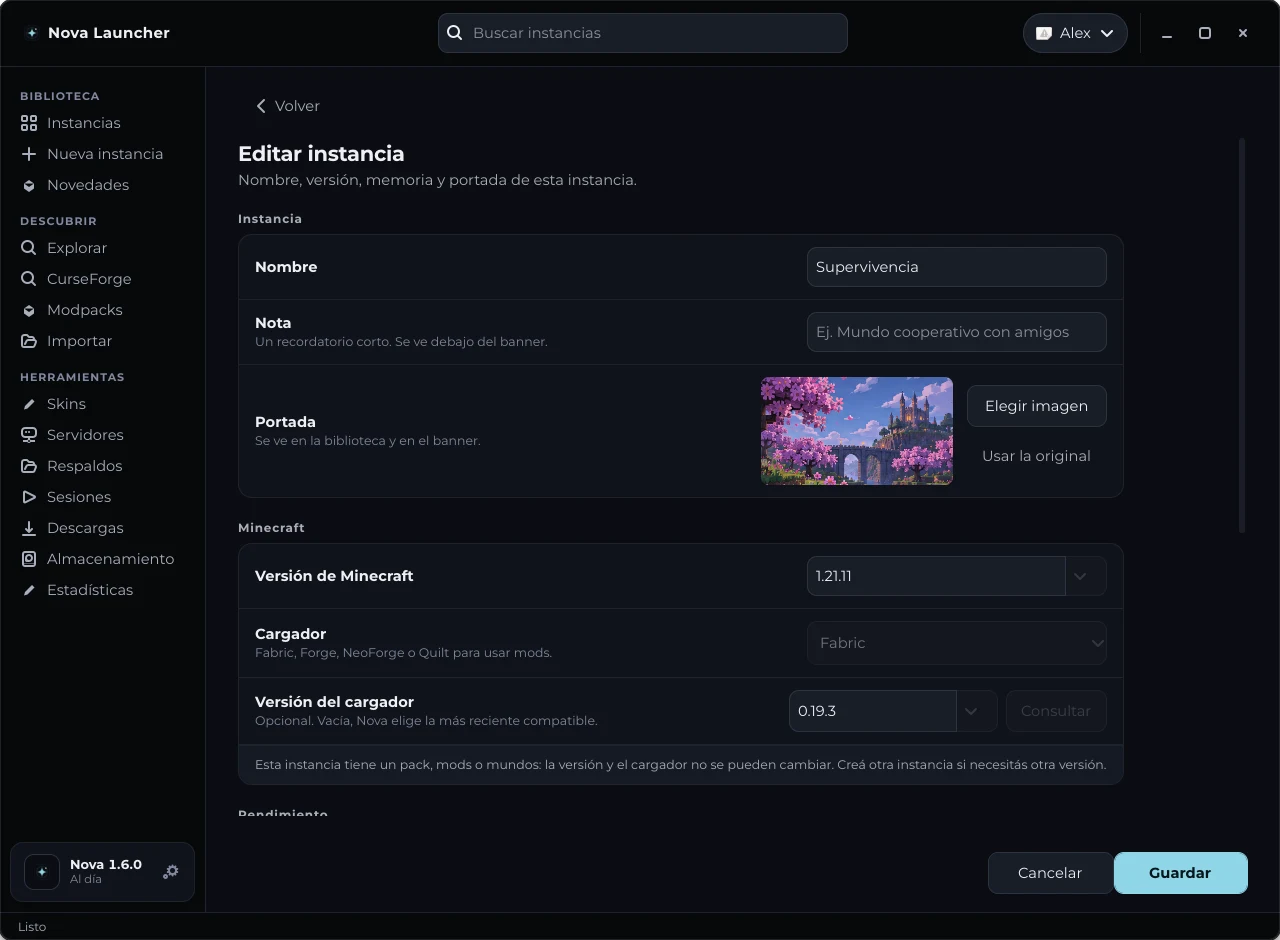
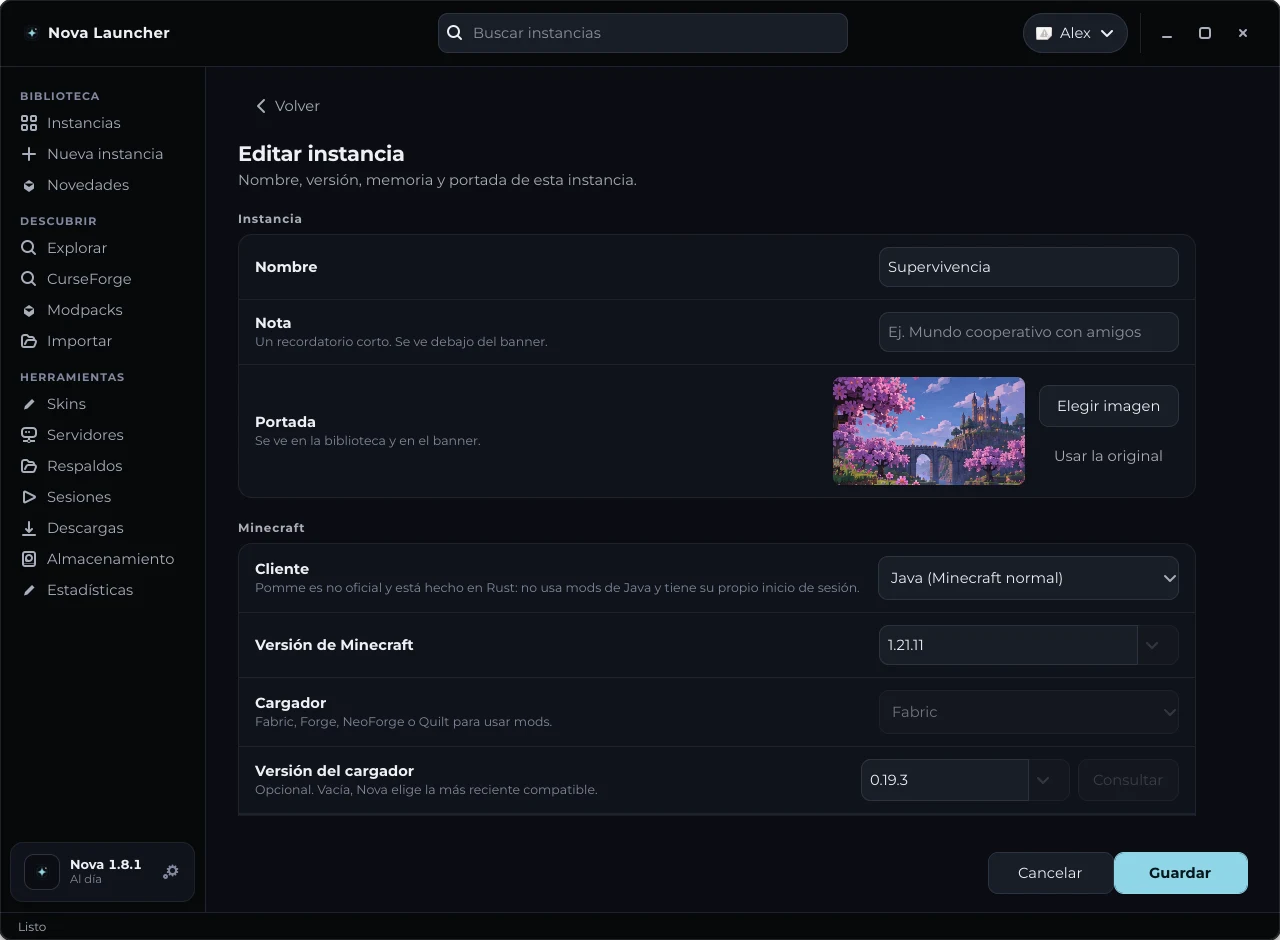
Website: Pomme/Rust section, screenshots from 1.8.1, privacy update and fixes
- New highlighted Rust/Pomme section, nav link, hero pill, strip item, feature row and FAQ
  (honest about experimental status, no mods, own Microsoft login, x64 only).
- All screenshots regenerated from the current app, plus two for Pomme.
- Privacy text covers the Nova account and the Pomme download.
- efectos.js: content reveal first, decorations in try/catch, so a failure can never leave sections hidden.
- Hero image priority, og:image size and alt, sitemap lastmod.
- tools/capturas.py: Pomme demo instance and scenes.

diff --git a/docs/index.html b/docs/index.html
@@ -5,7 +5,7 @@
   <meta name="google-site-verification" content="f-KJBeJi-TfsEfmEEZ4IR44FSGLed9uF5Enj_0-LfIo" />
   <meta name="viewport" content="width=device-width, initial-scale=1">
   <title>Nova Launcher — Launcher de Minecraft Java para Windows y Fedora</title>
-  <meta name="description" content="Nova Launcher organiza tus instancias de Minecraft Java: mods de Modrinth y CurseForge, importación de mods, texturas y shaders desde tu equipo, respaldos verificados, skins y servidores. Para Windows y Fedora.">
+  <meta name="description" content="Nova Launcher organiza tus instancias de Minecraft Java: mods de Modrinth y CurseForge, importación de mods, texturas y shaders desde tu equipo, respaldos verificados, skins, servidores y un cliente Rust experimental (Pomme). Para Windows y Fedora.">
   <meta name="theme-color" content="#07080b">
   <meta name="color-scheme" content="dark">
   <link rel="canonical" href="https://novalaunchermc.vercel.app/">
@@ -15,6 +15,9 @@
   <meta property="og:description" content="Instancias, mods, texturas y shaders desde tu equipo, respaldos verificados, skins y servidores para Minecraft Java en Windows y Fedora.">
   <meta property="og:url" content="https://novalaunchermc.vercel.app/">
   <meta property="og:image" content="https://novalaunchermc.vercel.app/assets/nova-biblioteca.webp">
+  <meta property="og:image:width" content="1280">
+  <meta property="og:image:height" content="820">
+  <meta property="og:image:alt" content="Biblioteca de Nova Launcher con el banner de una instancia y el botón Jugar">
   <meta name="twitter:card" content="summary_large_image">
   <link rel="preconnect" href="https://fonts.googleapis.com">
   <link rel="preconnect" href="https://fonts.gstatic.com" crossorigin>
@@ -31,6 +34,7 @@
       <a class="brand" href="./" aria-label="Nova Launcher, ir al inicio"><img src="assets/nova.svg" width="32" height="32" alt=""><span>Nova Launcher</span></a>
       <nav aria-label="Navegación">
         <a href="#funciones">Funciones</a>
+        <a href="#rust">Rust</a>
         <a href="#importar">Importar</a>
         <a href="#detalle">En detalle</a>
         <a href="#instalacion">Instalación</a>
@@ -45,7 +49,10 @@
       <canvas class="sky" data-sky aria-hidden="true"></canvas>
       <div class="wrap hero-grid">
         <div class="hero-copy">
-          <p class="badge"><span aria-hidden="true"></span> Versión estable · <b id="release-version">1.8.1</b></p>
+          <div class="badge-row">
+            <p class="badge"><span aria-hidden="true"></span> Versión estable · <b id="release-version">1.8.1</b></p>
+          <a class="badge badge-link" href="#rust"><span aria-hidden="true"></span> Nuevo · Cliente Rust (experimental)</a>
+          </div>
           <h1 id="titulo">Tus mods.<br>Tus mundos.<br><em>Un solo launcher.</em></h1>
           <p class="intro">Nova Launcher organiza tus instancias de Minecraft Java: instalá mods, importá los que ya tenés, revisá que todo funcione, guardá respaldos verificados y entrá a tus servidores.</p>
           <div class="actions">
@@ -60,7 +67,7 @@
           </p>
         </div>
         <figure class="shot hero-shot">
-          <img src="assets/nova-biblioteca.webp" width="1280" height="820" alt="Biblioteca de Nova Launcher con el banner de una instancia, el botón Jugar, los estantes de mods, shaders y texturas y la lista de instancias">
+          <img src="assets/nova-biblioteca.webp" width="1280" height="820" fetchpriority="high" alt="Biblioteca de Nova Launcher con el banner de una instancia, el botón Jugar, los estantes de mods, shaders y texturas y la lista de instancias">
           <figcaption>La biblioteca de Nova. Captura real con datos de ejemplo.</figcaption>
         </figure>
       </div>
@@ -69,10 +76,40 @@
 
     <section class="strip wrap" aria-label="Resumen">
       <ul>
+        <li><b>Java o Pomme (Rust)</b><span>elegís el cliente de cada instancia</span></li>
         <li><b>Vanilla, Fabric, Forge, NeoForge y Quilt</b><span>una instancia para cada partida</span></li>
         <li><b>Modrinth, CurseForge y tu equipo</b><span>mods, modpacks, shaders y texturas</span></li>
         <li><b>Windows x64 y Fedora</b><span>instaladores con SHA-256</span></li>
       </ul>
+    </section>
+
+    <section class="section wrap import rust" id="rust" aria-labelledby="rust-titulo">
+      <div class="copy reveal">
+        <h2 id="rust-titulo">Minecraft también en Rust, sin dejar Java</h2>
+        <p>Cada instancia puede usar <strong>Pomme</strong>, un cliente de Minecraft Java escrito en Rust. Java sigue siendo lo normal: Pomme es una opción más, y se elige por instancia en Editar instancia.</p>
+        <dl class="kinds">
+          <div><dt>Estado</dt><dd>experimental: Pomme está en desarrollo y le faltan funciones</dd></div>
+          <div><dt>Es de</dt><dd>un proyecto independiente, no oficial (<code>PommeMC/Client</code>, GPL-3.0)</dd></div>
+          <div><dt>Mods</dt><dd>no usa mods, shaders ni texturas de Java</dd></div>
+          <div><dt>Cuenta</dt><dd>tiene su propio inicio de sesión de Microsoft y pide tener Minecraft Java</dd></div>
+          <div><dt>Sistemas</dt><dd>Linux x64 y Windows x64</dd></div>
+        </dl>
+        <ul class="checks">
+          <li>Nova te pregunta antes de descargarlo y lo baja de la release oficial en GitHub.</li>
+          <li>Comprueba el tamaño y la suma SHA-256 que publica GitHub antes de abrirlo.</li>
+          <li>El tiempo jugado cuenta igual que con Java y, si falla, queda un <code>pomme.log</code>.</li>
+        </ul>
+      </div>
+      <div class="shots">
+        <figure class="shot reveal">
+          <img src="assets/nova-pomme.webp" width="1280" height="820" loading="lazy" alt="Biblioteca de Nova con una instancia que usa Pomme: el banner muestra la etiqueta Pomme · Rust y un aviso de que no usa los mods de Java">
+          <figcaption>Una instancia con Pomme. Datos de ejemplo.</figcaption>
+        </figure>
+        <figure class="shot small reveal">
+          <img src="assets/nova-pomme-descarga.webp" width="460" height="287" loading="lazy" alt="Aviso Descargar Pomme: explica que es un cliente no oficial, en desarrollo, y que Nova comprueba su suma SHA-256">
+          <figcaption>El aviso antes de descargar</figcaption>
+        </figure>
+      </div>
     </section>
 
     <section class="section wrap" id="funciones" aria-labelledby="funciones-titulo">
@@ -92,6 +129,11 @@
           <svg aria-hidden="true" viewBox="0 0 24 24"><path d="M12 3v12m-5-5 5 5 5-5M4 20h16"/></svg>
           <h3>Importá lo que ya tenés</h3>
           <p>Sumá mods, texturas, shaders y paquetes de datos desde archivos de tu equipo, o abrí un modpack. Nova revisa cada archivo antes de copiarlo.</p>
+        </li>
+        <li class="reveal">
+          <svg aria-hidden="true" viewBox="0 0 24 24"><path d="M9 3v3m6-3v3M9 18v3m6-3v3M3 9h3m-3 6h3m12-6h3m-3 6h3M7 6h10v12H7zm3 4h4v4h-4z"/></svg>
+          <h3>Cliente Rust (experimental)</h3>
+          <p>Elegí Pomme, un cliente de Minecraft Java escrito en Rust, para una instancia. Java sigue siendo lo normal y Nova pregunta antes de descargar nada.</p>
         </li>
         <li class="reveal">
           <svg aria-hidden="true" viewBox="0 0 24 24"><path d="M12 3 4 6v6c0 4.5 3.2 7.8 8 9 4.8-1.2 8-4.5 8-9V6l-8-3Zm-3.5 9 2.5 2.5 4.5-5"/></svg>
@@ -201,7 +243,11 @@
       </details>
       <details>
         <summary>¿Puedo jugar sin cuenta de Microsoft?</summary>
-        <p>Sí, con perfiles sin conexión. El inicio de sesión con Microsoft necesita un ID de aplicación aprobado para Minecraft Services; todavía no se probó de punta a punta.</p>
+        <p>Con Java, sí, con perfiles sin conexión. Con Pomme no: pide una cuenta de Microsoft y tener Minecraft Java. El inicio de sesión con Microsoft necesita un ID de aplicación aprobado para Minecraft Services; todavía no se probó de punta a punta.</p>
+      </details>
+      <details>
+        <summary>¿Qué es Pomme y es seguro usarlo?</summary>
+        <p>Pomme es un cliente de Minecraft Java escrito en Rust, de un proyecto independiente (<a href="https://github.com/PommeMC/Client">PommeMC/Client</a>, GPL-3.0-or-later). Nova lo descarga de su release oficial y comprueba el tamaño y la suma SHA-256 que publica GitHub. Eso confirma que es el archivo de esa release; no garantiza que el programa esté libre de errores. Sus propios autores avisan de que está en desarrollo y que sus instaladores todavía no están firmados.</p>
       </details>
       <details>
         <summary>¿Qué es la cuenta Nova?</summary>

diff --git a/docs/efectos.js b/docs/efectos.js
@@ -1,7 +1,31 @@
-// Nova Launcher · sitio. Cielo de estrellas, barra con fondo al desplazarse y entrada suave de las secciones.
-// Sin JavaScript o con "menos movimiento" todo se ve de inmediato y el cielo queda quieto.
+// Nova Launcher · sitio. Entrada suave de las secciones, barra con fondo al desplazarse y cielo de estrellas.
+// Cada parte va aparte: si una falla, el contenido nunca queda oculto. Sin JavaScript o con "menos movimiento"
+// todo se ve de inmediato y el cielo queda quieto.
 (() => {
   const reduce = matchMedia("(prefers-reduced-motion: reduce)").matches;
+
+  function reveal() {
+    const items = document.querySelectorAll(".reveal");
+    const showAll = () => items.forEach((item) => item.classList.add("visible"));
+    if (!("IntersectionObserver" in window) || reduce) return showAll();
+    const observer = new IntersectionObserver((entries) => {
+      for (const entry of entries) {
+        if (entry.isIntersecting) {
+          entry.target.classList.add("visible");
+          observer.unobserve(entry.target);
+        }
+      }
+    }, { rootMargin: "0px 0px -8% 0px", threshold: 0.08 });
+    items.forEach((item) => observer.observe(item));
+  }
+
+  function bar() {
+    const header = document.querySelector("[data-bar]");
+    if (!header) return;
+    const update = () => header.classList.toggle("is-scrolled", scrollY > 24);
+    update();
+    addEventListener("scroll", update, { passive: true });
+  }
 
   // Generador determinista: el cielo es idéntico en cada visita.
   function rng(seed) {
@@ -15,15 +39,9 @@
     };
   }
 
-  const bar = document.querySelector("[data-bar]");
-  if (bar) {
-    const update = () => bar.classList.toggle("is-scrolled", scrollY > 24);
-    update();
-    addEventListener("scroll", update, { passive: true });
-  }
-
-  const canvas = document.querySelector("[data-sky]");
-  if (canvas && canvas.getContext) {
+  function sky() {
+    const canvas = document.querySelector("[data-sky]");
+    if (!canvas || !canvas.getContext) return;
     const random = rng(1987);
     const count = innerWidth < 700 ? 130 : 300;
     const stars = Array.from({ length: count }, () => {
@@ -84,7 +102,7 @@
     }
 
     size();
-    if (reduce) {
+    if (reduce || !("IntersectionObserver" in window)) {
       draw(0);
     } else {
       const play = () => { if (!running) { running = true; frame = requestAnimationFrame(loop); } };
@@ -102,19 +120,9 @@
     addEventListener("resize", () => { clearTimeout(timer); timer = setTimeout(() => { size(); if (reduce) draw(0); }, 120); });
   }
 
-  const items = document.querySelectorAll(".reveal");
-  if (!items.length) return;
-  if (!("IntersectionObserver" in window) || reduce) {
-    items.forEach((item) => item.classList.add("visible"));
-    return;
+  // El contenido primero; lo decorativo después y sin poder romperlo.
+  try { reveal(); } catch { document.querySelectorAll(".reveal").forEach((item) => item.classList.add("visible")); }
+  for (const part of [bar, sky]) {
+    try { part(); } catch { /* decoración: si falla, la página sigue igual */ }
   }
-  const observer = new IntersectionObserver((entries) => {
-    for (const entry of entries) {
-      if (entry.isIntersecting) {
-        entry.target.classList.add("visible");
-        observer.unobserve(entry.target);
-      }
-    }
-  }, { rootMargin: "0px 0px -8% 0px", threshold: 0.08 });
-  items.forEach((item) => observer.observe(item));
 })();

diff --git a/docs/estilos.css b/docs/estilos.css
@@ -47,6 +47,9 @@ kbd { padding: 2px 7px; border-radius: 6px; background: var(--raised); box-shado
 .curve path { fill: none; stroke: var(--accent); stroke-width: 1.6; vector-effect: non-scaling-stroke; stroke-linejoin: round; opacity: 0.8; }
 .hero-grid { display: grid; grid-template-columns: minmax(0, 0.86fr) minmax(0, 1.14fr); gap: clamp(32px, 5vw, 72px); align-items: center; padding-top: 44px; }
 .badge { display: inline-flex; align-items: center; gap: 10px; min-height: 32px; padding: 0 14px; border-radius: 999px; box-shadow: inset 0 0 0 1px var(--line2); color: var(--ink2); font-size: 0.82rem; }
+.badge-row { display: flex; flex-wrap: wrap; gap: 10px; }
+.badge-link { text-decoration: none; color: var(--accent); box-shadow: inset 0 0 0 1px rgba(143, 214, 232, 0.4); transition: background-color 200ms ease; }
+.badge-link:hover { color: var(--accent-hover); background: var(--accent-dim); }
 .badge span { width: 8px; height: 8px; border-radius: 50%; background: var(--accent); }
 .badge b { font-family: var(--mono); font-weight: 500; font-size: 0.78rem; color: var(--ink); }
 h1 { margin-top: 24px; font-size: clamp(2.6rem, 5.6vw, 4.5rem); line-height: 0.98; letter-spacing: -0.035em; font-weight: 650; font-variation-settings: "wdth" 120; }
@@ -73,7 +76,7 @@ h1 em { font-style: normal; color: var(--accent); }
 
 /* Resumen */
 .strip { margin-top: -36px; }
-.strip ul { list-style: none; display: grid; grid-template-columns: repeat(3, 1fr); border-radius: var(--radius); background: var(--bg2); box-shadow: inset 0 0 0 1px var(--line); overflow: hidden; }
+.strip ul { list-style: none; display: grid; grid-template-columns: repeat(4, 1fr); border-radius: var(--radius); background: var(--bg2); box-shadow: inset 0 0 0 1px var(--line); overflow: hidden; }
 .strip li { padding: 22px 26px; display: flex; flex-direction: column; gap: 3px; }
 .strip li + li { border-left: 1px solid var(--line); }
 .strip b { font-weight: 600; font-variation-settings: "wdth" 108; letter-spacing: -0.01em; }
@@ -102,6 +105,9 @@ h3 { font-size: 1.15rem; font-weight: 620; letter-spacing: -0.01em; font-variati
 .checks li { padding-left: 24px; position: relative; }
 .checks li::before { content: ""; position: absolute; left: 2px; top: 0.62em; width: 9px; height: 9px; border-radius: 50%; background: var(--accent); }
 .import .shot { max-width: 540px; justify-self: end; }
+.rust .shots { display: grid; gap: 20px; justify-items: end; }
+.rust .shot { max-width: none; width: 100%; }
+.rust .shot.small { max-width: 340px; }
 
 .showcase { margin-top: clamp(36px, 5vw, 64px); display: grid; gap: clamp(56px, 8vw, 104px); }
 .row { display: grid; grid-template-columns: minmax(0, 0.8fr) minmax(0, 1.2fr); gap: clamp(28px, 5vw, 64px); align-items: center; }

diff --git a/docs/terminos.html b/docs/terminos.html
@@ -41,6 +41,8 @@
     <section aria-labelledby="privacidad">
       <h2 id="privacidad">Privacidad</h2>
       <p>Nova guarda las instancias, los perfiles offline, las direcciones de servidores, las estadísticas de juego, la clave de API de CurseForge (si la ingresás) y los registros del juego en el equipo, sin enviarlos a ningún servidor de Nova. Cuando usás funciones en línea, el launcher se conecta al proveedor correspondiente, como Microsoft, Modrinth, CurseForge o GitHub.</p>
+      <p>Si iniciás sesión con la cuenta Nova, el launcher abre la web de Nova Studios (studiosnova.vercel.app) y se conecta a ella: tu contraseña se escribe solo en el navegador, nunca en el launcher. El launcher guarda en tu equipo un acceso que se revoca al cerrar sesión y solo lee tu nombre de usuario y tu avatar. Los datos de esa cuenta (correo, nombre y una contraseña cifrada) los guarda Nova Studios, no el launcher.</p>
+      <p>Si elegís Pomme (un cliente de Minecraft no oficial y de otro proyecto) para una instancia, Nova lo descarga desde GitHub Releases cuando aceptás y lo guarda en tu equipo. Pomme tiene su propio inicio de sesión y sus propias condiciones.</p>
       <p>La web está alojada en Vercel y consulta GitHub Releases para mostrar la versión disponible. Al abrir enlaces externos o descargar desde GitHub, se aplican las condiciones y prácticas de privacidad del servicio que recibe la solicitud.</p>
       <p><a href="https://vercel.com/legal/privacy-policy">Privacidad de Vercel</a> · <a href="https://docs.github.com/en/site-policy/privacy-policies/github-general-privacy-statement">Privacidad de GitHub</a></p>
     </section>

diff --git a/tools/capturas.py b/tools/capturas.py
@@ -31,10 +31,11 @@ from gi.repository import Gio, GLib, Graphene, Gtk  # noqa: E402
 
 FABRIC_MODS = ("Sodium", "Lithium", "Iris Shaders", "Mod Menu", "Fabric API", "Xaero's Minimap", "Sound Physics")
 FAKE_INSTANCES = (
-    ("Supervivencia", "1.21.11", "fabric", "0.19.3", 4, 6, 42_300, 1),
-    ("Create Nova", "1.21.1", "neoforge", "21.1.231", 8, 14, 15_400, 2),
-    ("Servidor de amigos", "1.20.1", "forge", "47.3.0", 6, 5, 7_900, 3),
-    ("Vanilla limpio", "1.21.4", "vanilla", "", 3, 0, 900, 4),
+    ("Supervivencia", "1.21.11", "fabric", "0.19.3", 4, 6, 42_300, 1, "java"),
+    ("Create Nova", "1.21.1", "neoforge", "21.1.231", 8, 14, 15_400, 2, "java"),
+    ("Servidor de amigos", "1.20.1", "forge", "47.3.0", 6, 5, 7_900, 3, "java"),
+    ("Vanilla limpio", "1.21.4", "vanilla", "", 3, 0, 900, 4, "java"),
+    ("Prueba en Rust", "1.21.11", "vanilla", "", 4, 0, 5_400, 0, "pomme"),
 )
 
 
@@ -49,12 +50,12 @@ def build_demo():
     root = DATA / "nova-launcher"
     library = {"selected": "", "recent": {}, "playtime": {}, "favorites": []}
     now = time.time()
-    for number, (name, version, loader, loader_version, memory, mods, seconds, artwork) in enumerate(FAKE_INSTANCES):
+    for number, (name, version, loader, loader_version, memory, mods, seconds, artwork, client) in enumerate(FAKE_INSTANCES):
         folder = root / "instances" / f"demo{number}"
         (folder / "game").mkdir(parents=True)
         (folder / "instance.json").write_text(json.dumps({
             "version": version, "loader": loader, "loader_version": loader_version, "java": "", "jvm_args": "",
-            "memory_min": 0, "name": name, "memory": memory, "artwork": artwork, "pack": False, "cover": "",
+            "memory_min": 0, "name": name, "memory": memory, "artwork": artwork, "pack": False, "cover": "", "client": client,
             "notes": "", "resolution": "default"}), encoding="utf-8")
         for index in range(mods):
             title = FABRIC_MODS[index % len(FABRIC_MODS)].lower().replace(" ", "-").replace("'", "")
@@ -223,6 +224,15 @@ def scene_list(app, state):
         app.leave_page()
         app.show_health(app.selected)
 
+    def pomme():
+        app.leave_page()
+        app.selected = DATA / "nova-launcher" / "instances" / "demo4"
+        app.refresh()
+
+    def pomme_download():
+        pomme()
+        app.confirm_pomme_install()
+
     def drop():
         hint = app.window.get_child().get_last_child()
         hint.set_visible(True)
@@ -234,6 +244,8 @@ def scene_list(app, state):
         ("principal", nothing, 400),
         ("biblioteca", tall, 900),
         ("soltar", drop, 400),
+        ("pomme", pomme, 700),
+        ("pomme-descarga", pomme_download, 900),
         ("salud", health, 1500),
         ("plantillas", page("show_templates"), 900),
         ("estadisticas", page("show_statistics"), 900),
